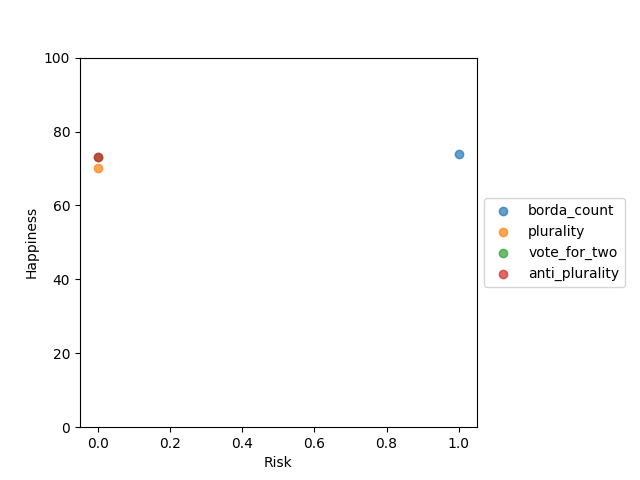
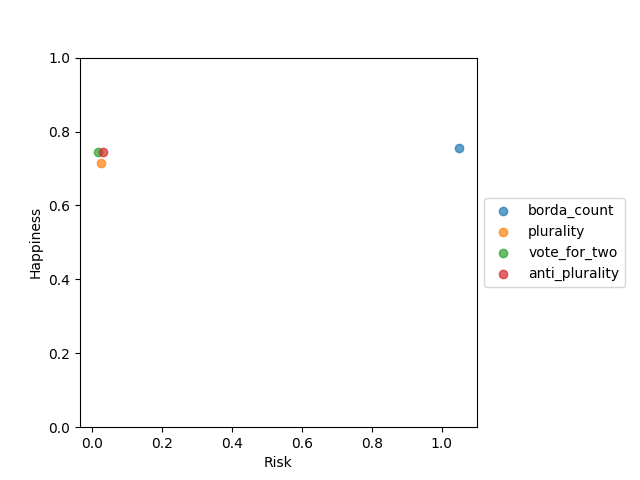
Add Advanced TVA experiments

diff --git a/experiment.py b/experiment.py
@@ -2,6 +2,7 @@ import numpy as np
 from enum import Enum
 from tactical_voting_analyst.voter import Voter
 import matplotlib.pyplot as plt
+import random
 
 
 class ExperimentType(Enum):
@@ -21,6 +22,8 @@ class Experiment:
         self.TVA = kwargs.get("TVA", None)
         self.voting_schemes = kwargs.get("voting_schemes", None)
         self.happiness_scheme = kwargs.get("happiness_scheme", None)
+        self.tactical_strategy = kwargs.get("tactical_strategy", None)
+        self.risk_type = kwargs.get("risk_type", None)
 
     def run(self):
         if self.exp_type == ExperimentType.SIMPLE:
@@ -43,7 +46,7 @@ class Experiment:
             scheme_risk, scheme_happiness = self.get_risk_and_happiness(vs)
             schemes_happiness_risk.append((scheme_happiness, scheme_risk, vs))
             ax.scatter(
-                scheme_risk,
+                self.apply_jitter(scheme_risk),
                 scheme_happiness,
                 label=str(vs.__repr__())[14:].split(":")[0],
                 alpha=0.7,
@@ -56,11 +59,12 @@ class Experiment:
         ax = self.create_ax()
         schemes_happiness_risk = {}
         for i, cnames in enumerate(self.candidates_names):
-            self.voters = [
-                Voter(np.expand_dims(preference, 0))
-                for preference in self.preferences[i]
-            ]
-            self.tva = self.TVA(self.candidates[i], cnames, self.voters)
+            # self.voters = [
+            #     Voter(preference)
+            #     for preference in self.preferences[i]
+            # ]
+            self.tva = self.TVA(
+                self.candidates[i], cnames, self.preferences[i])
             for vs in self.voting_schemes:
                 vs_string = str(vs.__repr__())[14:].split(":")[0]
                 scheme_risk, scheme_happiness = self.get_risk_and_happiness(vs)
@@ -70,7 +74,7 @@ class Experiment:
                     schemes_happiness_risk[vs_string].append(
                         (
                             (scheme_happiness, scheme_risk),
-                            f"{vs_string}_{len(cnames)}",
+                            f"{len(cnames)}",
                         )
                     )
 
@@ -86,7 +90,8 @@ class Experiment:
             all_y_points += ys
             annots = [vs_n[1] for vs_n in schemes_happiness_risk[vs]]
             all_annots += annots
-            ax.scatter(xs, ys, label=vs, alpha=0.7)
+            ax.scatter(self.apply_jitter(xs, multi=True),
+                       ys, label=vs, alpha=0.7)
 
         for i, txt in enumerate(all_annots):
             ax.annotate(txt, (all_x_points[i], all_y_points[i]))
@@ -98,12 +103,8 @@ class Experiment:
         ax = self.create_ax()
         schemes_happiness_risk = {}
         for i, voters in enumerate(self.preferences):
-            self.voters = [
-                Voter(np.expand_dims(preference, 0))
-                for preference in self.preferences[i]
-            ]
             self.tva = self.TVA(
-                self.candidates, self.candidates_names, self.voters
+                self.candidates, self.candidates_names, self.preferences[i]
             )
             for vs in self.voting_schemes:
                 vs_string = str(vs.__repr__())[14:].split(":")[0]
@@ -114,7 +115,7 @@ class Experiment:
                     schemes_happiness_risk[vs_string].append(
                         (
                             (scheme_happiness, scheme_risk),
-                            f"{vs_string}_{voters.shape[0]}",
+                            f"{voters.shape[0]}",
                         )
                     )
 
@@ -130,7 +131,8 @@ class Experiment:
             all_y_points += ys
             annots = [vs_n[1] for vs_n in schemes_happiness_risk[vs]]
             all_annots += annots
-            ax.scatter(xs, ys, label=vs, alpha=0.7)
+            ax.scatter(self.apply_jitter(xs, multi=True),
+                       ys, label=vs, alpha=0.7)
 
         for i, txt in enumerate(all_annots):
             ax.annotate(txt, (all_x_points[i], all_y_points[i]))
@@ -139,10 +141,23 @@ class Experiment:
         plt.savefig(self.exp_path + "/results.png")
 
     def get_risk_and_happiness(self, vs):
-        scheme_tactical_options = self.tva.determine_tactical_options(
-            vs, self.happiness_scheme
-        )
-        scheme_risk = self.tva.calculate_risk(scheme_tactical_options)
+        if self.tactical_strategy == 'PAIRED':
+            scheme_tactical_options = self.tva.determine_paired_tactical_options(
+                vs, self.happiness_scheme
+            )
+        elif self.tactical_strategy == 'RUN-OFF':
+            scheme_tactical_options = self.tva.determine_tactical_options_run_off_election(
+                self.happiness_scheme
+            )
+        elif self.tactical_strategy == 'BASIC':
+            scheme_tactical_options = self.tva.determine_tactical_options(
+                vs, self.happiness_scheme
+            )
+        else:
+            raise Exception('Invalid tactical strategy')
+        print('=======', vs, scheme_tactical_options)
+        scheme_risk = self.tva.calculate_risk(
+            scheme_tactical_options, vs, self.happiness_scheme, version=self.risk_type)
         scheme_happiness = self.tva.overall_happiness(vs)
 
         return scheme_risk, scheme_happiness
@@ -156,7 +171,13 @@ class Experiment:
 
     def format_ax(self, ax):
         # ax.xlim((0, 1))
-        # ax.set_ylim((0, 100))
+        ax.set_ylim((0, 1))
         ax.legend(loc="center left", bbox_to_anchor=(1, 0.5))
         plt.xlabel("Risk")
         plt.ylabel("Happiness")
+
+    def apply_jitter(self, points, multi=False):
+        if multi:
+            return [p + random.uniform(0.02, 0.05) for p in points]
+        else:
+            return points + random.uniform(0.01, 0.05)

diff --git a/tactical_voting_analyst/tactical_voting_analyst.py b/tactical_voting_analyst/tactical_voting_analyst.py
@@ -38,6 +38,7 @@ class TacticalVotingAnalyst:
         :param optimize_voters: whether to reduces the voters to their unique preferences
         :param verbose: decides if stuff will be printed out (otherwise print will be ignored)
         """
+        self.preferences = preferences
         if isinstance(preferences, np.ndarray):
             preferences = tuple(tuple(p) for p in preferences)
         self.print = Logger(verbose)
@@ -266,7 +267,7 @@ class TacticalVotingAnalyst:
             curr_happiness = tuple(
                 voter.determine_happiness(
                     voter.outcome_to_ranked_ids(outcome),
-                    voting_scheme,
+                    # voting_scheme,
                     happiness_scheme,
                 )
                 for voter in sub_voters
@@ -306,7 +307,7 @@ class TacticalVotingAnalyst:
                 new_happiness = tuple(
                     voter.determine_happiness(
                         voter.outcome_to_ranked_ids(new_outcome),
-                        voting_scheme,
+                        # voting_scheme,
                         happiness_scheme,
                     )
                     for voter in sub_voters
@@ -330,7 +331,7 @@ class TacticalVotingAnalyst:
                     )
                     tactical_options.append(tactical_option)
 
-        ## OLD CODE
+        # OLD CODE
         # # For every voter that is in our situation
         # for i in range(len(self.voting_situation.voters) - 1):
         #     # Get voter
@@ -438,6 +439,7 @@ class TacticalVotingAnalyst:
     ) -> float:
         risk = 0
         if version == 0:
+            print('*******', tactical_options)
             risk = len(
                 tuple(to for to in tactical_options if len(to) > 0)
             ) / len(tactical_options)
@@ -469,6 +471,8 @@ class TacticalVotingAnalyst:
             risk = sum(x(to) for to in tactical_options) / len(
                 tactical_options
             )
+
+        return risk
 
     def impact_on_all_other_happiness(
         self, voting_scheme: VotingScheme, happiness_scheme: HappinessScheme
@@ -506,7 +510,7 @@ class TacticalVotingAnalyst:
 
     def determine_tactical_options_run_off_election(
         self,
-        preferences: np.ndarray,
+        # preferences: np.ndarray,
         happiness_scheme: HappinessScheme = HappinessScheme.borda_count,
     ) -> list[list[tuple]]:
         """
@@ -519,8 +523,8 @@ class TacticalVotingAnalyst:
         tactical_options = []
 
         # Get number of voters and candidates
-        V = preferences.shape[0]
-        C = preferences.shape[1]
+        V = self.preferences.shape[0]
+        C = self.preferences.shape[1]
 
         # For each voter
         for i in range(V):
@@ -532,12 +536,12 @@ class TacticalVotingAnalyst:
                 i
             ].determine_happiness(
                 self.run_off_outcome_to_ranking(
-                    self.perform_run_off_election(preferences)
+                    self.perform_run_off_election(self.preferences)
                 ),
                 happiness_scheme,
             )
 
-            temp_preferences = preferences.copy()
+            temp_preferences = self.preferences.copy()
             # Look at all permutations
             for perm in itertools.permutations(np.arange(C)):
                 # Replace with preference
@@ -591,7 +595,7 @@ class TacticalVotingAnalyst:
         # Get two winners
         two_winners = (-counter).argsort()[:2].astype(np.int32)
 
-        ## ROUND TWO
+        # ROUND TWO
         # Determine wins for number one and number two (simple majority selection)
         wins_one = (
             np.where(preferences == two_winners[0])[1]

diff --git a/generate_experiment.py b/generate_experiment.py
@@ -10,7 +10,8 @@ from experiment import Experiment, ExperimentType
 def generate_experiment(argv: list[str]):
 
     try:
-        opts, _ = getopt.getopt(argv, shortopts="", longopts=["exp_folder_name="])
+        opts, _ = getopt.getopt(
+            argv, shortopts="", longopts=["exp_folder_name="])
 
     except getopt.GetoptError as e:
         print("Error: ", e)
@@ -40,6 +41,8 @@ def generate_experiment(argv: list[str]):
     voting_schemes = variables["VOTING_SCHEMES"]
     happiness_scheme = variables["HAPPINESS_SCHEME"]
     exp_type = variables["EXPERIMENT_TYPE"]
+    tactical_strategy = variables["TACTICAL_STRATEGY"]
+    risk_type = variables["RISK_TYPE"]
 
     experiment = Experiment(
         exp_type=exp_type,
@@ -51,6 +54,8 @@ def generate_experiment(argv: list[str]):
         TVA=TVA,
         voting_schemes=voting_schemes,
         happiness_scheme=happiness_scheme,
+        tactical_strategy=tactical_strategy,
+        risk_type=risk_type
     )
 
     experiment.run()

diff --git a/experiments/increase_candidates/config.py b/experiments/increase_candidates/config.py
@@ -4,13 +4,15 @@ from tactical_voting_analyst.voting_schemes import VotingScheme
 from tactical_voting_analyst.happiness_schemes import HappinessScheme
 from experiment import ExperimentType
 
-CANDIDATES_NAMES = (("A", "B", "C"), ("A", "B", "C", "D"), ("A", "B", "C", "D", "E"))
+CANDIDATES_NAMES = (("A", "B", "C"), ("A", "B", "C", "D"),
+                    ("A", "B", "C", "D", "E"))
 
 CANDIDATES = [np.arange(len(c)) for c in CANDIDATES_NAMES]
 
 PREFERENCES = (
     np.array(
-        [[0, 1, 2], [1, 2, 0], [2, 0, 1], [0, 1, 2], [1, 2, 0], [2, 0, 1], [0, 1, 2],]
+        [[0, 1, 2], [1, 2, 0], [2, 0, 1], [0, 1, 2],
+            [1, 2, 0], [2, 0, 1], [0, 1, 2], ]
     ),
     np.array(
         [
@@ -48,3 +50,8 @@ VOTING_SCHEMES = [
 HAPPINESS_SCHEME = HappinessScheme.borda_count
 
 EXPERIMENT_TYPE = ExperimentType.INCREASE_CANDIDATES
+
+
+TACTICAL_STRATEGY = 'BASIC'
+
+RISK_TYPE = 0

diff --git a/experiments/increase_voters/config.py b/experiments/increase_voters/config.py
@@ -15,7 +15,8 @@ CANDIDATES = np.arange(len(CANDIDATES_NAMES))
 
 PREFERENCES = [
     np.array([[0, 1, 2, 3], [1, 2, 3, 0], [2, 3, 0, 1], [0, 1, 2, 3]]),
-    np.array([[0, 1, 2, 3], [1, 2, 3, 0], [2, 3, 0, 1], [0, 1, 2, 3], [1, 2, 3, 0],]),
+    np.array([[0, 1, 2, 3], [1, 2, 3, 0], [2, 3, 0, 1],
+             [0, 1, 2, 3], [1, 2, 3, 0], ]),
     np.array(
         [
             [0, 1, 2, 3],
@@ -41,3 +42,7 @@ VOTING_SCHEMES = [
 HAPPINESS_SCHEME = HappinessScheme.borda_count
 
 EXPERIMENT_TYPE = ExperimentType.INCREASE_VOTERS
+
+TACTICAL_STRATEGY = 'PAIRED'
+
+RISK_TYPE = 0

diff --git a/experiments/example_experiment/config.py b/experiments/example_experiment/config.py
@@ -37,3 +37,7 @@ VOTING_SCHEMES = [
 HAPPINESS_SCHEME = HappinessScheme.borda_count
 
 EXPERIMENT_TYPE = ExperimentType.SIMPLE
+
+TACTICAL_STRATEGY = 'BASIC'
+
+RISK_TYPE = 0
